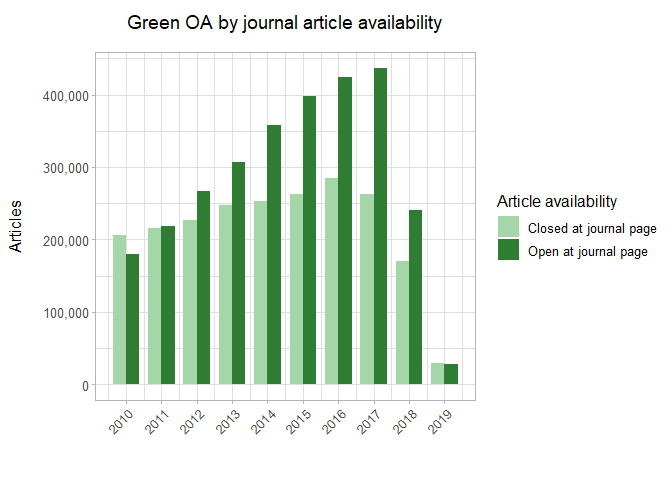
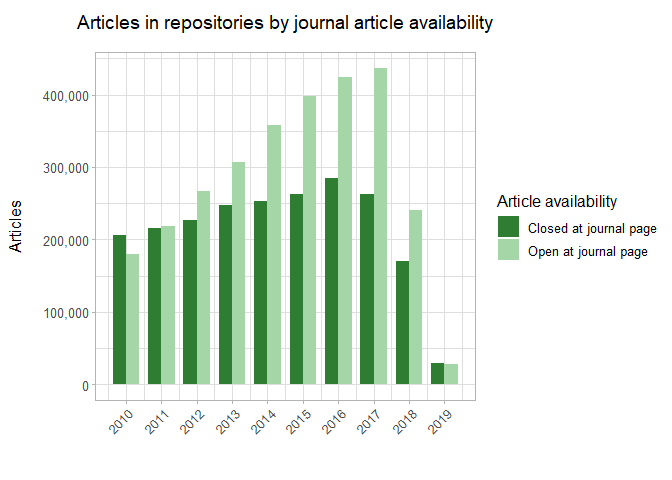
wip

Changed region(s): [[0.1562, 0.125, 0.6875, 0.8125], [0.0938, 0.0312, 0.75, 0.0625], [0.7188, 0.4375, 0.7812, 0.5625]]

diff --git a/documentation.md b/documentation.md
@@ -29,7 +29,7 @@ With respect to RQ3, the following factors will be investigated:
   - Time
   - Discipline
   - Country of authorship
-  - Publication venue (journal)
+  - Publication venue (journal prestige)
 
 ## Data Sources
 
@@ -180,8 +180,8 @@ The following metrics are used for measuring altmetric activity:
     consists of 40 OA and 60 non-OA articles. The Twitter coverage of
     the entire population is 30%, but the coverage of the OA group is
     50%. Thus, the relative coverage of the OA group is 50/30 = 1.66. An
-    interpretation is that OA articles are 66% more likely to receive OA
-    coverage than the population as a whole.
+    interpretation is that OA articles are mentioned 66% more often on
+    Twitter than the population as a whole.
 
 ### OA Classification
 
@@ -207,8 +207,8 @@ al. (2019)](https://arxiv.org/abs/1906.03840):
 
 ![robinson\_garcia\_unpaywall\_classification](figures/external/robinson_garcia_unpaywall_classification.PNG)
 
-This classification diverges from the OA classification scheme [used by
-Unpaywall
+This classification scheme diverges from the OA classification scheme
+[used by Unpaywall
 directly](https://support.unpaywall.org/support/solutions/articles/44001777288-what-do-the-types-of-oa-status-green-gold-hybrid-and-bronze-mean-)
 in two ways:
 
@@ -237,9 +237,9 @@ alternative kind of OA
 
 ![](documentation_files/figure-gfm/unnamed-chunk-7-1.png)<!-- -->
 
-PMC clearly contributes a large proportion of Green OA from 2010 to
-2017. In 2018 and 2019, no PMC articles are found to contribute to Green
-OA - notably, no articles are found for these year in the Unpaywall data
+PMC contributes a large proportion of Green OA from 2010 to 2017. In
+2018 and 2019, no PMC articles are found to contribute to Green OA -
+notably, no articles are found for these year in the Unpaywall data
 where the evidence is described as “oa repository (via pmcid lookup)”.
 However, when checking the same articles from 2018 and 2019 directly via
 the Unpaywall API, PMC *is* included as an evidence source. A
@@ -273,15 +273,16 @@ authors, than those who **only** self-archive? The impact dynamics are
 therefore likely different for Green OA, depending on the availability
 of the corresponding journal article.
 
-##### Number of Green OA articles that are open and closed at the corresponding journal page ([query](queries/calc_unpaywall_classification_green_types.sql))
+##### Number of articles in repositories that are open and closed at the corresponding journal page ([query](queries/calc_unpaywall_classification_green_types.sql))
 
 ![](documentation_files/figure-gfm/unnamed-chunk-9-1.png)<!-- -->
 
-It appears that Green OA growth is more strongly represented by articles
-which are also available at the corresponding journal page, than closed
-articles. Note, however, that the above figures includes PMC articles -
-as shown in the previous section, there is also a large overlap of PMC
-with Gold OA, and to a lesser extent with Hybrid and Bronze OA.
+It appears tha growth in Green OA between 2010 and 2017 is stronger for
+articles which are also available at the corresponding journal page,
+than closed articles. Note, however, that the above figures includes PMC
+articles - as shown in the previous section, there is also a large
+overlap of PMC with Gold OA, and to a lesser extent with Hybrid and
+Bronze OA.
 
 ##### Number of Green OA articles published in different types of OA journals ([query](queries/calc_unpaywall_classification_green_types.sql))
 
@@ -292,8 +293,9 @@ shares has grown most strongly between 2010 and 2017. However,
 approximately 75% of the growth can be attributed to growth in deposits
 to PMC. Interestingly, whilst the contribution of Hybrid OA has grown
 over this time period, the contribution of Bronze OA remains relatively
-static, and even falls marginally from 2014 onwards. \#\#\#\#
-Recommendations for classifying Green OA
+static, and even falls marginally from 2014 onwards.
+
+#### Recommendations for classifying Green OA
 
 From the above results, a general recommendation is that Green OA should
 not be considered a ‘black box’ in the context of understanding impact
@@ -301,7 +303,7 @@ metrics, as it includes multiple archiving routes, and interacts
 strongly with other forms of OA. However, creating many other
 ‘categories’ of Green OA (i.e. one category for Green OA including PMC
 and one excluding PMC) for analysis purposes is also sub-optimal, as
-categories become increasingly granular and large-scale mechanisms
+categories will become increasingly granular and large-scale mechanisms
 influencing impact are lost.
 
 For simplification purposes, PMC is therefore excluded as a form of
@@ -322,6 +324,9 @@ indicators and their OA status is explored.
 
 #### By Year
 
+Note: Year refers to the WOS publication year (not the publication year
+stored by Unpaywall)
+
 ##### Total altmetric coverage per indicator ([query](queries/calc_altmetrics_coverage_year.sql))
 
 ![](documentation_files/figure-gfm/unnamed-chunk-11-1.png)<!-- -->
@@ -340,13 +345,14 @@ Costas, 2018](https://openaccess.leidenuniv.nl/handle/1887/65278)).
 ![](documentation_files/figure-gfm/unnamed-chunk-12-1.png)<!-- -->
 
 In general terms, OA articles receive greater coverage in all altmetric
-indicators than non-OA articles. The advantage is surprisingly stable
-across altmetric indicators, with values of relative coverage between
-1.25-1.75 for OA articles (i.e. OA articles receive 25-75 % more
-coverage than the baseline coverage of all articles). For some
-indicators, e.g. Facebook, news articles, Twitter and Wikipedia, the OA
-advantage appears to weaken over time, whilst for blogs the advantage
-remains relatively stable, and even increases marginally for policies.
+indicators than non-OA articles for all years. The advantage is
+surprisingly stable across altmetric indicators, with values of relative
+coverage between 1.25-1.75 for OA articles (i.e. OA articles receive
+25-75 % more coverage than the baseline coverage of all articles). For
+some indicators, e.g. Facebook, news articles, Twitter and Wikipedia,
+the relative coverage of OA articles reduces over time, whilst for blogs
+relative coverage remains relatively stable, and even increases
+marginally for policies.
 
 ##### Relative altmetric coverage in different access types ([query](queries/calc_altmetrics_coverage_year_oa_types.sql))
 
@@ -380,31 +386,41 @@ are abbreviated as follows:
 
 ![](documentation_files/figure-gfm/unnamed-chunk-15-1.png)<!-- -->
 
-Higher altmetric coverage is observed in BS, LES and SSH than MCS and
-PSE. SSH has the highest coverage on blogs, whilst on Facebook and
-Twitter the highest coverage is observed in BHS. MCS has the lowest
-coverage across all indicators.
+Higher altmetric coverage is observed in BHS, LES and SSH than MCS and
+PSE. SSH has the highest coverage on blogs and in policy documents,
+whilst on Facebook and Twitter the highest coverage is observed in BHS.
+MCS has the lowest coverage across all indicators.
 
 ##### Relative altmetric coverage in OA versus non-OA publications ([query](queries/calc_altmetrics_coverage_classification_oa.sql))
 
 ![](documentation_files/figure-gfm/unnamed-chunk-16-1.png)<!-- -->
 
 Interestingly, whilst PSE and MCS were shown in the previous figure to
-have the lowest coverage of all subject classifications, the *relative*
-coverage of OA publications in PSE and MCS is generally higher than in
-BHS, LES and SSH. An exception to this is in policy mentions, where
-relative coverage of OA publication in PSE is similar to LES and SSH,
-whilst in MCS the relative coverage of OA publications is only slightly
-greater than 1.
+have generally lower coverage across all indicators than other subject
+classifications, the relative coverage of OA publications in PSE and MCS
+is generally higher than in BHS, LES and SSH. An exception to this is in
+policy mentions, where relative coverage of OA publication in PSE is
+similar to LES and SSH, whilst in MCS the relative coverage of OA
+publications is only slightly greater than 1.
 
 ##### Relative altmetric coverage in different access types ([query](queries/calc_altmetrics_coverage_classification_oa_types.sql))
 
 ![](documentation_files/figure-gfm/unnamed-chunk-17-1.png)<!-- -->
 
+High coverage of PSE in OA publications appears to be driven mainly by
+Green and Bronze OA. With respect to blogs and Wikipedia, Bronze OA has
+by far the highest coverage, which appears to be driven strongly by a
+small selection of ‘high impact’ journals in Astronomy. Conversely, for
+Twitter and Facebook, the highest coverage in PSE is in Green OA - it
+would be interesting to investigate whether this is due to availability
+of Green OA on arXiv.
+
 #### By Country
 
-For the following analysis, the top 50 countries by publishing volume
-are included.
+For the following analysis, the top 5 countries per region (Africa,
+Americas, Europe, Asia, Oceania) by publishing volume are included. For
+Oceania, only Australia and New Zealand are included as publishing
+volumes for other countries (e.g. Fiji) are extremely low.
 
 ##### Total altmetric coverage per indicator ([query](queries/calc_altmetrics_coverage_country.sql))
 
@@ -460,23 +476,74 @@ units in detail, and explore interactions between different units:
 
 ![](documentation_files/figure-gfm/unnamed-chunk-26-1.png)<!-- -->
 
-#### A deeper look at Twitter at the country level: who is tweeting OA and non-OA articles?
+Given that policy documents focus heavily on Western, English-language
+countries, why is the coverage of Gold OA publications so low?
 
-Are OA articles more tweeted by authors in their own country?
+Do these countries publish more Gold OA than others?
 
-\-\> <https://www.frontiersin.org/articles/10.3389/frma.2016.00008/full>
+``` r
+big_countries <- c("US", "GB", "AU", "CA")
 
-“We find that papers published by those authors from Chinese
-affiliations have much lower visibility on the social web than articles
-from other countries, when there is no significant difference for the
-citations. Fewer of China’s publications get tweeted, and those tweeted
-publications attract less social attention. A geographical analysis of
-tweeters shows that scholarly articles get most of their social
-attention from the authors’ home countries”
+read_csv("data/altmetrics_coverage_country_oa_types.csv") %>%
+  mutate(is_big = case_when(
+    country %in% big_countries ~ T,
+    T ~ F
+  )) %>%
+  group_by(type, is_big) %>%
+  summarize(items = sum(items)) %>%
+  mutate(proportion = items / sum(items)) %>%
+  ggplot() +
+  geom_bar(aes(x = type, y = proportion, fill = is_big), stat = "identity")
+```
+
+    ## Parsed with column specification:
+    ## cols(
+    ##   country = col_character(),
+    ##   type = col_character(),
+    ##   items = col_double(),
+    ##   blogs = col_double(),
+    ##   facebook = col_double(),
+    ##   news = col_double(),
+    ##   policies = col_double(),
+    ##   twitter = col_double(),
+    ##   wikipedia = col_double()
+    ## )
 
 ![](documentation_files/figure-gfm/unnamed-chunk-27-1.png)<!-- -->
 
-## Study Limitations
+Can we correct the coverage-OA types graph, only including papers
+authored from US, GB, AU, CA?
 
-  - Observational evidence only
-  - Country/language preferences in Altmetric.com sources
+``` r
+read_csv("data/policy_countries_oa_types.csv") %>%
+  mutate(
+    author_country = case_when(
+      author_country %in% top_author_countries ~ author_country,
+      T ~ "Other"
+    ),
+    policy_country = case_when(
+      policy_country %in% top_policy_countries ~ policy_country,
+      T ~ "Other"
+    )) %>%
+  select(type, author_country, policy_country, n_items) %>%
+  ggforce::gather_set_data(1:3) %>%
+  ggplot(aes(x, id = id, split = y, value = n_items)) +
+    ggforce::geom_parallel_sets(aes(fill = author_country), 
+                                alpha = 0.5, sep = 0.03, n = 1000) +
+    ggforce::geom_parallel_sets_axes(axis.width = 0.1, fill = "grey99", 
+                                     color="grey75", sep = 0.03) +
+    ggforce::geom_parallel_sets_labels(angle = 0, colour = "black", sep = 0.03) +
+    theme_void() +
+    theme(legend.position = "none") +
+    viridis::scale_fill_viridis(discrete = T)
+```
+
+    ## Parsed with column specification:
+    ## cols(
+    ##   author_country = col_character(),
+    ##   policy_country = col_character(),
+    ##   n_items = col_double(),
+    ##   type = col_character()
+    ## )
+
+![](documentation_files/figure-gfm/unnamed-chunk-28-1.png)<!-- -->
